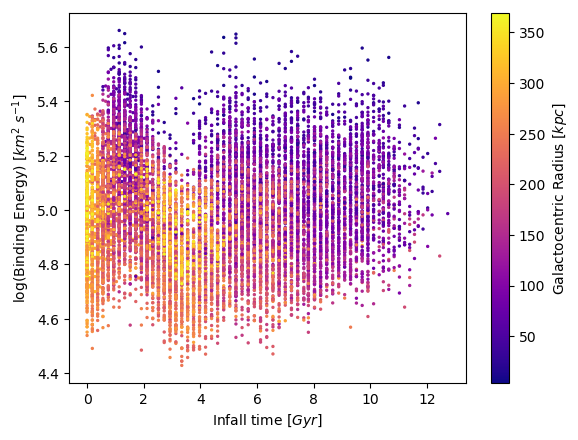
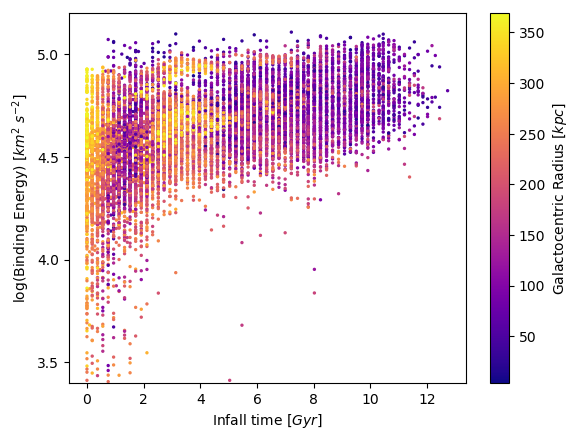
fixed binding energy calculation

diff --git a/plots.py b/plots.py
@@ -8,22 +8,24 @@ import astropy.units as u
 bind, z, r, v_r = [np.array([]) for i in range(4)]
 for sim in list_of_sims('elvis'):
     subs = pd.read_pickle('derived_props/'+sim)
-    bind_sim = -subs.pot_NFW.values + (subs.v_r.values**2 + subs.v_t.values**2)
+    bind_sim = -subs.pot_NFW.values - 0.5*(subs.v_r.values**2 + subs.v_t.values**2)
     bind = np.append(bind, bind_sim)
-    z = np.append(z, WMAP7.lookback_time(1/subs.a_acc.values - 1))
+    z = np.append(z, WMAP7.lookback_time(1/subs.apeak.values - 1))
     r = np.append(r, subs.r.values)
     v_r = np.append(v_r, subs.v_r)
 
 plt.scatter(z, np.log10(bind), s=2.0, c=r, cmap='plasma')
 plt.colorbar().set_label(r'Galactocentric Radius [$kpc$]')
+plt.ylim(3.4,5.2)
+plt.yticks([3.5,4.0,4.5,5.0])
 plt.xlabel(r'Infall time [$Gyr$]')
-plt.ylabel(r'log(Binding Energy) [$km^2\ s^{-1}$]')
-plt.savefig('rocha_fig1.png', bbox_inches='tight')
+plt.ylabel(r'log(Binding Energy) [$km^2\ s^{-2}$]');
+plt.savefig('figures/rocha_fig1_apeak.png', bbox_inches='tight')
 plt.close()
 
 plt.scatter(r, v_r, s=2.0, c=z, cmap='plasma')
 plt.colorbar().set_label(r'Infall time [$Gyr$]')
 plt.xlabel(r'Galactocentric Radius [$kpc$]')
 plt.ylabel(r'Radial Velocity [$km/s$]')
-plt.savefig('rocha_fig3.png', bbox_inches='tight')
+plt.savefig('figures/rocha_fig3.png', bbox_inches='tight')
 plt.close()
